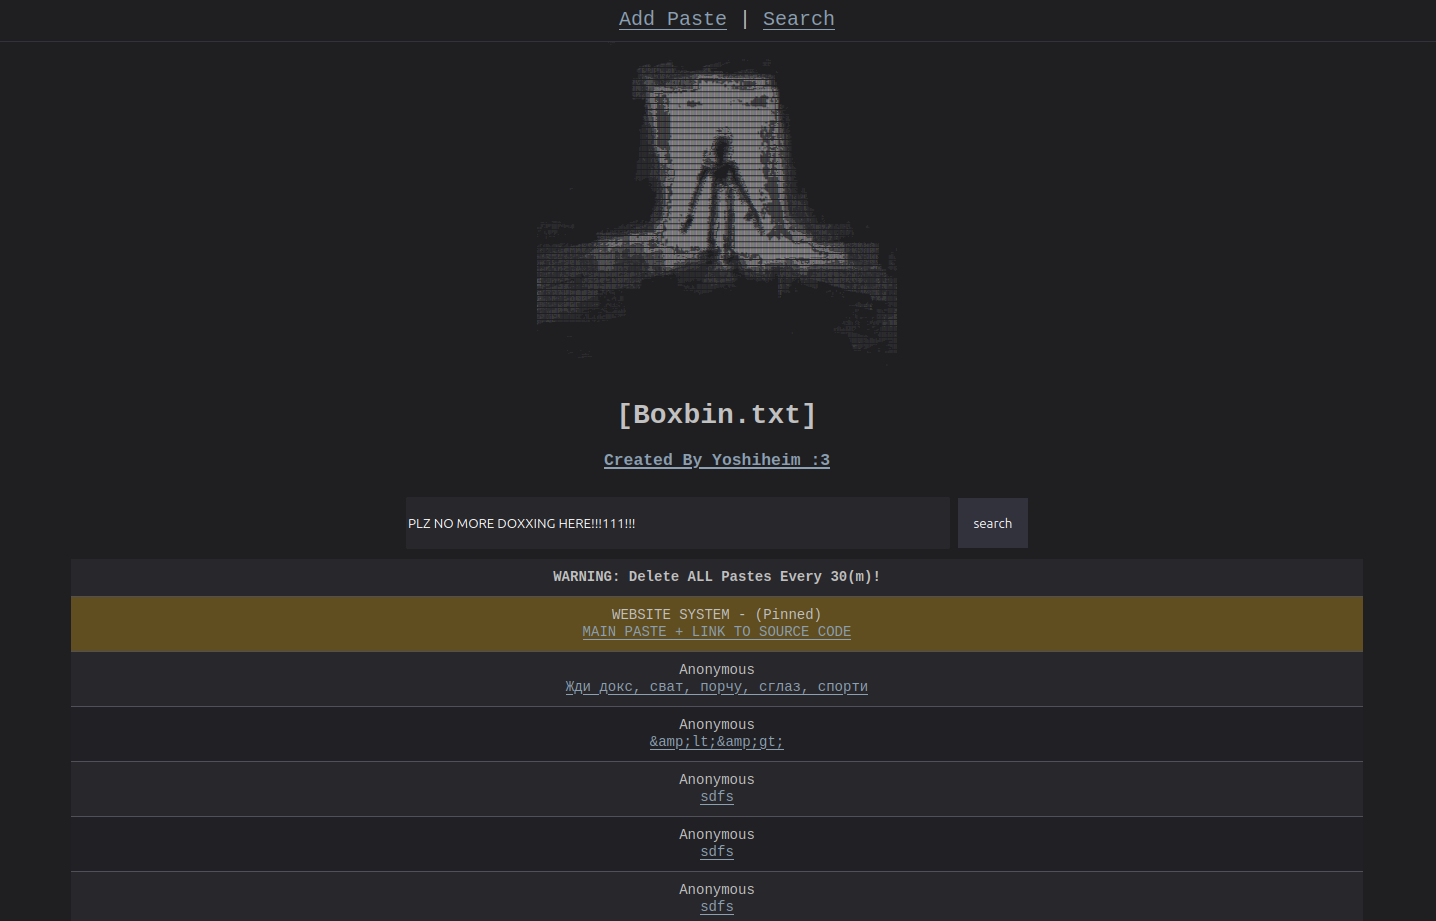
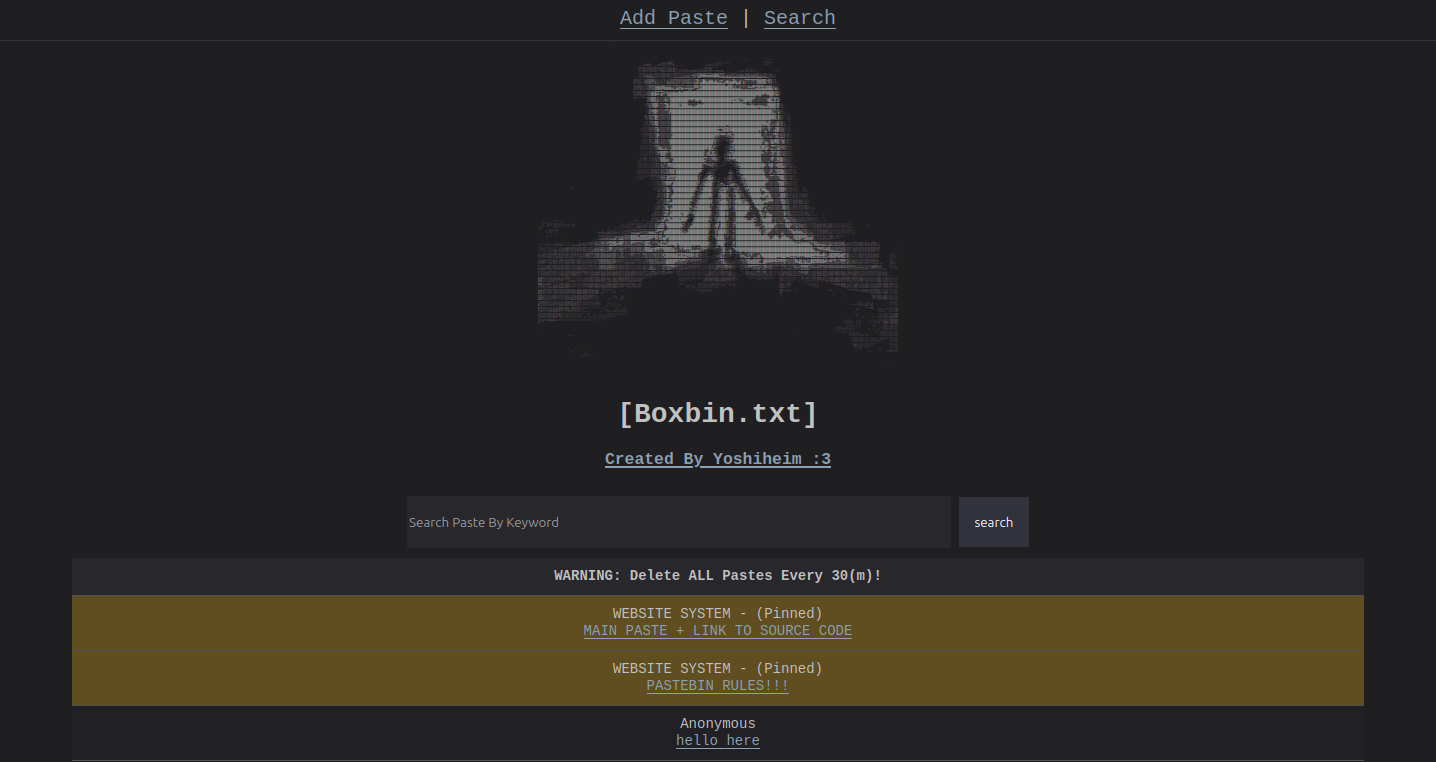
some update

Changed region(s): [[0.0306, 0.4226, 0.9499, 1.0], [0.3677, 0.0, 0.6128, 0.4226], [0.6435, 0.5433, 0.7354, 0.6037]]

diff --git a/README.md b/README.md
@@ -1,6 +1,8 @@
 ### __Website source code repository.__
 
-this website for dinomask furries but also be for any kind of furries too.
+The Jokeness Doxbin Clone
+
+So please, do not post real pirvate information here.
 
 ## The Website Screenshot:
 